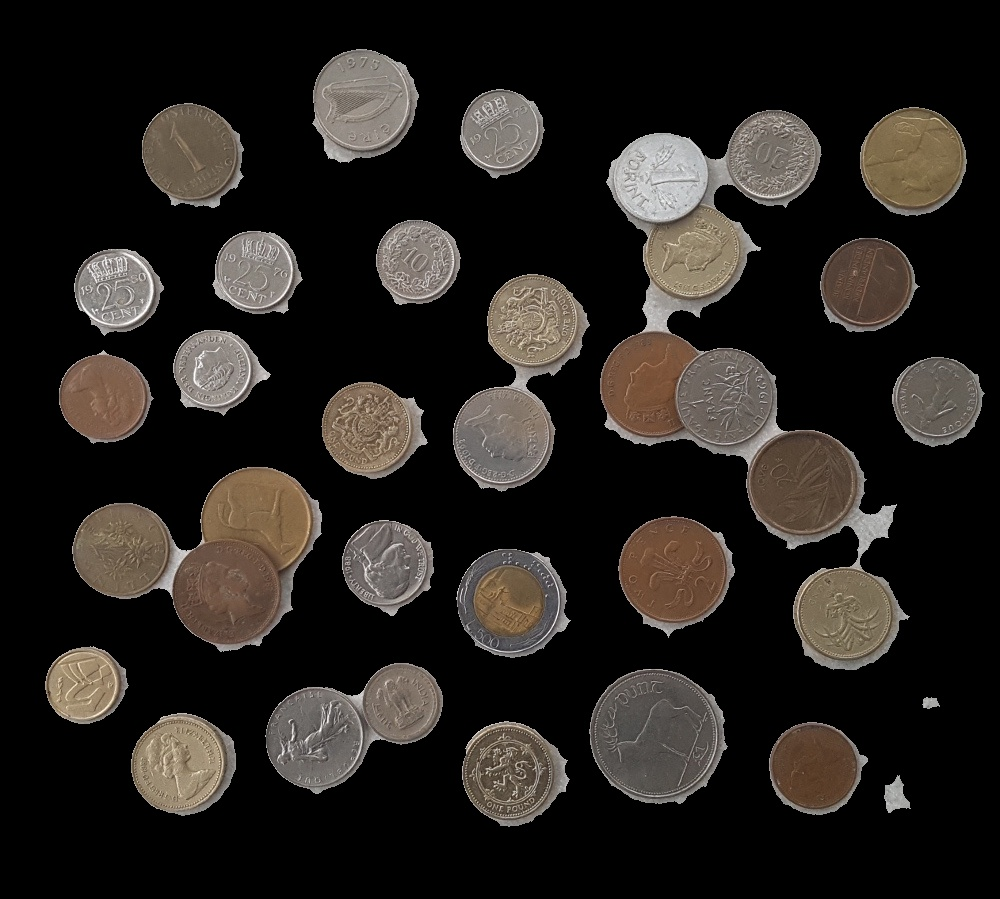
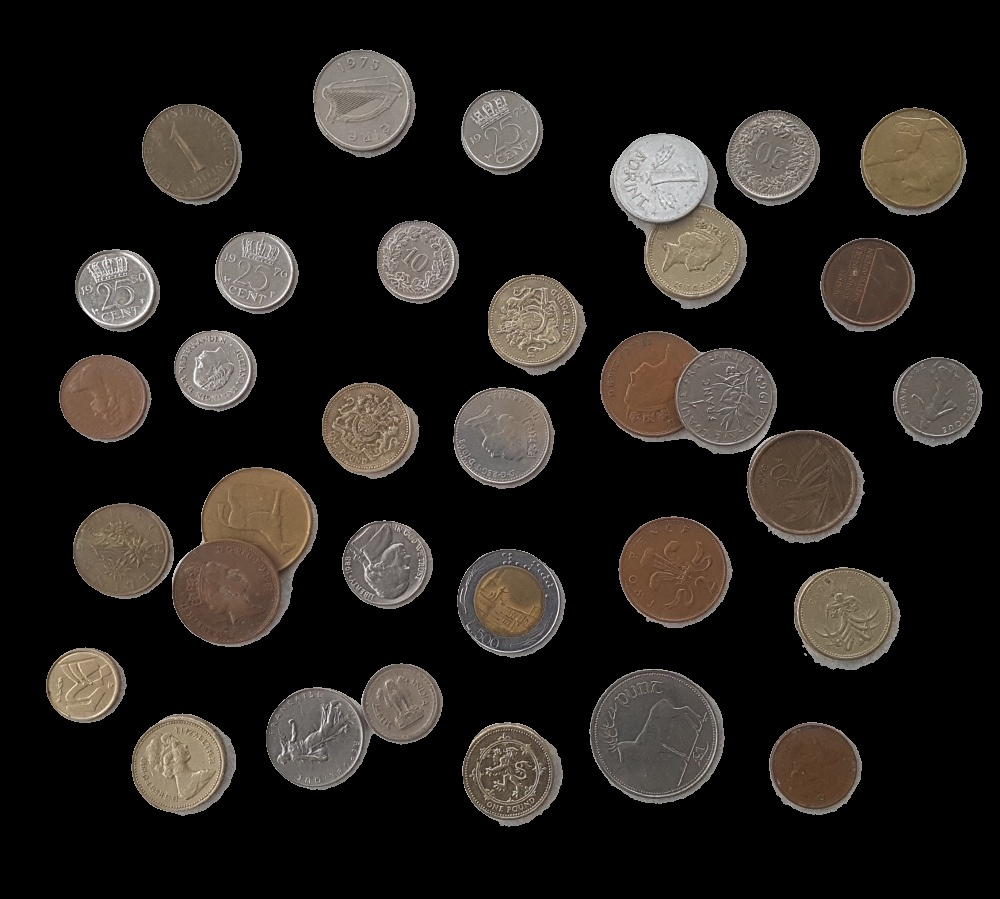
Aprimorando as imagens de saída

diff --git a/python_code/letterB.py b/python_code/letterB.py
@@ -1,7 +1,5 @@
 ''' RESOLUÇÃO DA LETRA B '''
 
-from contextlib import closing
-from cv2 import bitwise_and, dilate, threshold
 import numpy as np
 import cv2 as cv
 import matplotlib.pyplot as plt
@@ -13,62 +11,177 @@ def generate_histogram(img):
     plt.xlim([0, 256])
     plt.show()
     
-def remove_background(img, gray_image, whiteBackground):
-    # A IMAGEM POSSUI FUNDO BRANCO
-    if(whiteBackground == True):
-        kernel = cv.getStructuringElement(cv.MORPH_ELLIPSE, (25, 25))
-        ret, thresh_image = cv.threshold(gray_image, 0, 255, cv.THRESH_BINARY_INV + cv.THRESH_OTSU)
-    # A IMAGEM POSSUI FUNDO PRETO
-    else:
-        kernel = cv.getStructuringElement(cv.MORPH_ELLIPSE, (3, 3))
-        thresh_image = cv.adaptiveThreshold(gray_image, 255, cv.ADAPTIVE_THRESH_GAUSSIAN_C, cv.THRESH_BINARY, 199, 3)
+def remove_background(img, gaussianBlur_img, what_img):
+    final_img = 0
+    
+    # PARA O CASO DA PRIMEIRA IMAGEM (JÁ LIMIARIZADA E PRECISA APENAS DO MÉTODO CLOSING)
+    if(what_img == 1):
+        kernel = cv.getStructuringElement(cv.MORPH_RECT, [5, 1])
+        erode_img = cv.erode(img, kernel, iterations=1)
         
-    closing_thresh = cv.morphologyEx(thresh_image, cv.MORPH_CLOSE, kernel)
+        kernel_2 = cv.getStructuringElement(cv.MORPH_CROSS, [25, 25])
+        closing_Eimg = cv.morphologyEx(erode_img, cv.MORPH_CLOSE, kernel_2)
+        
+        kernel_3 = cv.getStructuringElement(cv.MORPH_ELLIPSE, [7, 7])
+        erode_CEimg = cv.erode(closing_Eimg, kernel_3, iterations=1)
+ 
+        bitwise_img = cv.bitwise_or(img, erode_CEimg, mask=None)
+        
+        kernel_4 = cv.getStructuringElement(cv.MORPH_RECT, [1, 8])
+        final_img = cv.morphologyEx(bitwise_img, cv.MORPH_CLOSE, kernel_4)
+                
+        plt.figure('bolhas.png')
+        
+        plt.subplot(2, 3, 1)
+        plt.title('img')
+        plt.axis('OFF')
+        plt.plot()
+        plt.imshow(img, cmap='gray')
+        
+        plt.subplot(2, 3, 2)
+        plt.title('erode_img')
+        plt.axis('OFF')
+        plt.plot()
+        plt.imshow(erode_img, cmap='gray')
+        
+        plt.subplot(2, 3, 3)
+        plt.title('closing_Eimg')
+        plt.axis('OFF')
+        plt.plot()
+        plt.imshow(closing_Eimg, cmap='gray')
+        
+        plt.subplot(2, 3, 4)
+        plt.title('erode_CEimg')
+        plt.axis('OFF')
+        plt.plot()
+        plt.imshow(erode_CEimg, cmap='gray')
+        
+        plt.subplot(2, 3, 5)
+        plt.title('bitwise_img')
+        plt.axis('OFF')
+        plt.plot()
+        plt.imshow(bitwise_img, cmap='gray')
+        
+        plt.subplot(2, 3, 6)
+        plt.title('final_image')
+        plt.axis('OFF')
+        plt.plot()
+        plt.imshow(final_img, cmap='gray')
+        
+        plt.show()      
     
-    canny_image = cv.Canny(gray_image, 75, 0)
-    closing_canny = cv.morphologyEx(canny_image, cv.MORPH_CLOSE, kernel)
+    # ... SEGUNDA IMAGEM (USO DO CANNY PARA DETECTAR AS BORDAS DA MOEDA BRANCA, OP. MORFOLÓGICOS E BITWISE)
+    elif(what_img == 2):
+        canny_img = cv.Canny(gaussianBlur_img, 100, 0)
+        threshold, thresh_img = cv.threshold(gaussianBlur_img, 0, 255, cv.THRESH_OTSU + cv.THRESH_BINARY_INV)
+        bitwise_img = cv.bitwise_xor(canny_img, thresh_img, mask=None)
+        
+        kernel = cv.getStructuringElement(cv.MORPH_ELLIPSE, [19, 19])
+        closing_BCimg = cv.morphologyEx(bitwise_img, cv.MORPH_CLOSE, kernel)
+        
+        kernel_2 = cv.getStructuringElement(cv.MORPH_ELLIPSE, [75, 75])
+        opening_Cimg = cv.morphologyEx(closing_BCimg, cv.MORPH_OPEN, kernel_2)
+        
+        bitwise_TOimg = cv.bitwise_xor(thresh_img, opening_Cimg, mask=None)
+        bitwise_OBimg = cv.bitwise_or(opening_Cimg, bitwise_TOimg, mask=None)
+        
+        final_img = cv.bitwise_and(img, img, mask=bitwise_OBimg)
+        
+        plt.figure('coins-01.jpg')
+        
+        plt.subplot(3, 3, 1)
+        plt.title('gaussianBlur_img')
+        plt.axis('OFF')
+        plt.plot()
+        plt.imshow(gaussianBlur_img, cmap='gray')
+        
+        plt.subplot(3, 3, 2)
+        plt.title('canny_img')
+        plt.axis('OFF')
+        plt.plot()
+        plt.imshow(canny_img, cmap='gray')
+        
+        plt.subplot(3, 3, 3)
+        plt.title('thresh_img')
+        plt.axis('OFF')
+        plt.plot()
+        plt.imshow(thresh_img, cmap='gray')
+        
+        plt.subplot(3, 3, 4)
+        plt.title('bitwise_img')
+        plt.axis('OFF')
+        plt.plot()
+        plt.imshow(bitwise_img, cmap='gray')
+        
+        plt.subplot(3, 3, 5)
+        plt.title('closing_img')
+        plt.axis('OFF')
+        plt.plot()
+        plt.imshow(closing_BCimg, cmap='gray')
+        
+        plt.subplot(3, 3, 6)
+        plt.title('opening_img')
+        plt.axis('OFF')
+        plt.plot()
+        plt.imshow(opening_Cimg, cmap='gray')
+        
+        plt.subplot(3, 3, 7)
+        plt.title('bitwise_TOimg')
+        plt.axis('OFF')
+        plt.plot()
+        plt.imshow(bitwise_TOimg, cmap='gray')
+        
+        plt.subplot(3, 3, 8)
+        plt.title('bitwise_OBimg')
+        plt.axis('OFF')
+        plt.plot()
+        plt.imshow(bitwise_OBimg, cmap='gray')
+        
+        plt.subplot(3, 3, 9)
+        plt.title('final_img')
+        plt.axis('OFF')
+        plt.plot()
+        plt.imshow(final_img, cmap='gray')
+        
+        plt.show()
+    # ... TERCEIRA IMAGEM (USANDO LIMIAR ADAPTATIVO E O MÉTODO OPENING)
+    elif(what_img == 3):
+        thresh_img = cv.adaptiveThreshold(gaussianBlur_img, 255, cv.ADAPTIVE_THRESH_GAUSSIAN_C, cv.THRESH_BINARY, 199, 3)
+        
+        kernel = cv.getStructuringElement(cv.MORPH_CROSS, [3, 3])
+        opening_img = cv.morphologyEx(thresh_img, cv.MORPH_OPEN, kernel)
+        
+        final_img = cv.bitwise_and(img, img, mask=opening_img)
+        
+        plt.figure('rice.png')
+        
+        plt.subplot(2, 2, 1)
+        plt.title('gaussianBlur_img')
+        plt.axis('OFF')
+        plt.plot()
+        plt.imshow(gaussianBlur_img, cmap='gray')
+        
+        plt.subplot(2, 2, 2)
+        plt.title('thresh_img')
+        plt.axis('OFF')
+        plt.plot()
+        plt.imshow(thresh_img, cmap='gray')
+        
+        plt.subplot(2, 2, 3)
+        plt.title('opening_img')
+        plt.axis('OFF')
+        plt.plot()
+        plt.imshow(opening_img, cmap='gray')
+        
+        plt.subplot(2, 2, 4)
+        plt.title('final_img')
+        plt.axis('OFF')
+        plt.plot()
+        plt.imshow(final_img, cmap='gray')
+        
+        plt.show()
+    else:
+        print('ERROR - RETURNING FUNCTION...')
+        return
     
-    mask_image = cv.bitwise_or(closing_thresh, closing_canny, mask=None)
-    foreground_image = cv.bitwise_and(img, img, mask=mask_image)
-    
-    plt.subplot(2, 2, 1)
-    plt.title('thresh_image')
-    plt.axis('OFF')
-    plt.plot()
-    plt.imshow(thresh_image, cmap='binary_r')
-    
-    plt.subplot(2, 2, 2)
-    plt.title('closing_thresh')
-    plt.axis('OFF')
-    plt.plot()
-    plt.imshow(closing_thresh, cmap='binary_r')
-    
-    plt.subplot(2, 2, 3)
-    plt.title('canny_image')
-    plt.axis('OFF')
-    plt.plot()
-    plt.imshow(canny_image, cmap='binary_r')
-    
-    plt.subplot(2, 2, 4)
-    plt.title('closing_canny')
-    plt.axis('OFF')
-    plt.plot()
-    plt.imshow(closing_canny, cmap='binary_r')
-    
-    plt.show()
-    
-    plt.subplot(1, 2, 1)
-    plt.title('mask_image')
-    plt.axis('OFF')
-    plt.plot()
-    plt.imshow(mask_image, cmap='binary_r')
-    
-    plt.subplot(1, 2, 2)
-    plt.title('foreground_image')
-    plt.axis('OFF')
-    plt.plot()
-    plt.imshow(foreground_image, cmap='binary_r')
-    
-    plt.show()
-    
-    return foreground_image
+    return final_img

diff --git a/python_code/main.py b/python_code/main.py
@@ -1,4 +1,3 @@
-from cv2 import threshold
 import numpy as np
 import cv2 as cv
 import matplotlib.pyplot as plt
@@ -11,14 +10,16 @@ img2 = cv.imread('test_images/' + 'coins-01.jpg')[:,:,::-1]
 img3 = cv.imread('test_images/' + 'rice.png')[:,:,::-1]
 
 # LETRA A: REMOVENDO RUÍDO DA IMAGEM PELO FILTRO GAUSSIANO
-gray_img = cv.cvtColor(img, cv.COLOR_RGB2GRAY)
-gaussianBlur_img = cv.GaussianBlur(gray_img, [5, 5], 0)
+gray_img = cv.cvtColor(img, cv.COLOR_RGBA2GRAY)
+gaussianBlur_img = cv.GaussianBlur(gray_img, [7, 7], 0)
 
 gray_img2 = cv.cvtColor(img2, cv.COLOR_RGB2GRAY)
 gaussianBlur_img2 = cv.GaussianBlur(gray_img2, [7, 7], 0)
 
-gray_img3 = cv.cvtColor(img3, cv.COLOR_RGB2GRAY)
-gaussianBlur_img3 = cv.GaussianBlur(gray_img3, [5, 5], 0)
+gray_img3 = cv.cvtColor(img3, cv.COLOR_RGBA2GRAY)
+gaussianBlur_img3 = cv.GaussianBlur(gray_img3, [3, 3], 0)
+
+plt.figure('images')
 
 plt.subplot(3, 3, 1)
 plt.title('img')
@@ -67,15 +68,21 @@ plt.imshow(gaussianBlur_img3, cmap='gray')
 
 plt.show()
 
-# RESPONSÁVEL EM REMOVER O FUNDO DA IMAGEM.
-noBackground_image1 = b.remove_background(img, gaussianBlur_img, False)
-noBackground_image2 = b.remove_background(img2, gaussianBlur_img2, True)
-noBackground_image3 = b.remove_background(img3, gaussianBlur_img3, False)
+cv.imwrite('test_images/gaussianBlur_bolhas.png', gaussianBlur_img)
+cv.imwrite('test_images/gaussianBlur_coins-01.jpg', gaussianBlur_img2)
+cv.imwrite('test_images/gaussianBlur_rice.png', gaussianBlur_img3)
 
-noBackground_image1 = cv.cvtColor(noBackground_image1, cv.COLOR_RGB2BGR)
+
+# B: RESPONSÁVEL EM REMOVER O FUNDO DA IMAGEM.
+noBackground_image = b.remove_background(img, False, 1)
+noBackground_image2 = b.remove_background(img2, gaussianBlur_img2, 2)
+noBackground_image3 = b.remove_background(img3, gaussianBlur_img3, 3)
+
+noBackground_image = cv.cvtColor(noBackground_image, cv.COLOR_RGBA2BGRA)
 noBackground_image2 = cv.cvtColor(noBackground_image2, cv.COLOR_RGB2BGR)
-noBackground_image3 = cv.cvtColor(noBackground_image3, cv.COLOR_RGB2BGR)
+noBackground_image3 = cv.cvtColor(noBackground_image3, cv.COLOR_RGBA2BGRA)
 
-cv.imwrite('output_images/bolhas_result.png', noBackground_image1)
+cv.imwrite('output_images/bolhas_result.png', noBackground_image)
 cv.imwrite('output_images/coins-01_result.jpg', noBackground_image2)
 cv.imwrite('output_images/rice_result.png', noBackground_image3)
+
